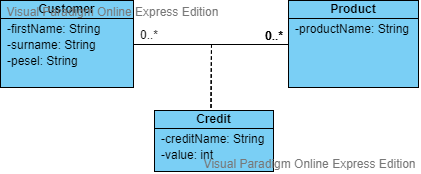
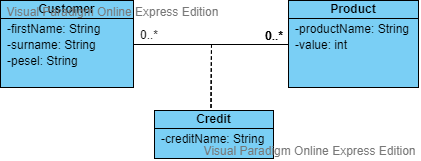
Updated README.md and proposed database model

diff --git a/README.md b/README.md
@@ -15,4 +15,4 @@ Czego nie udało się zrobić:
 - rozmieścić komponenty jako kontenery Docker;
 
 Uwagi:
-Według mnie model bazy danych można byłoby zmienić na przedstawiony w pliku model_bazy.png. Tabela Credit zawiera id klienta, który złożył kredyt, wartości oraz id produktu. W ten sposób nie będze zduplikowanych klientów oraz produktów.
+Według mnie model bazy danych można byłoby zmienić na przedstawiony w pliku model_bazy.png. Tabela Credit zawiera id klienta, który złożył kredyt oraz id produktu. W ten sposób nie będze zduplikowanych klientów oraz produktów.
